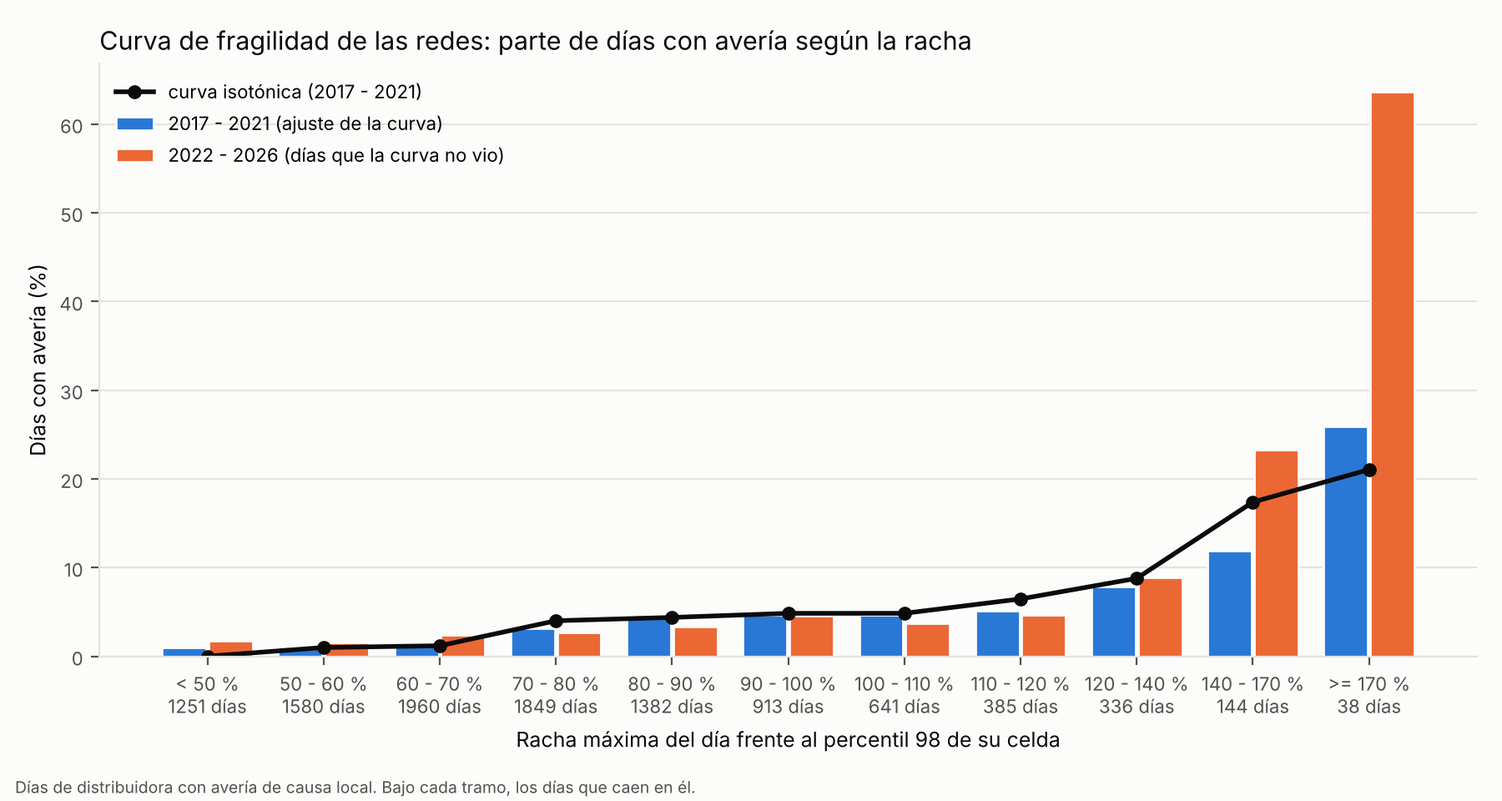
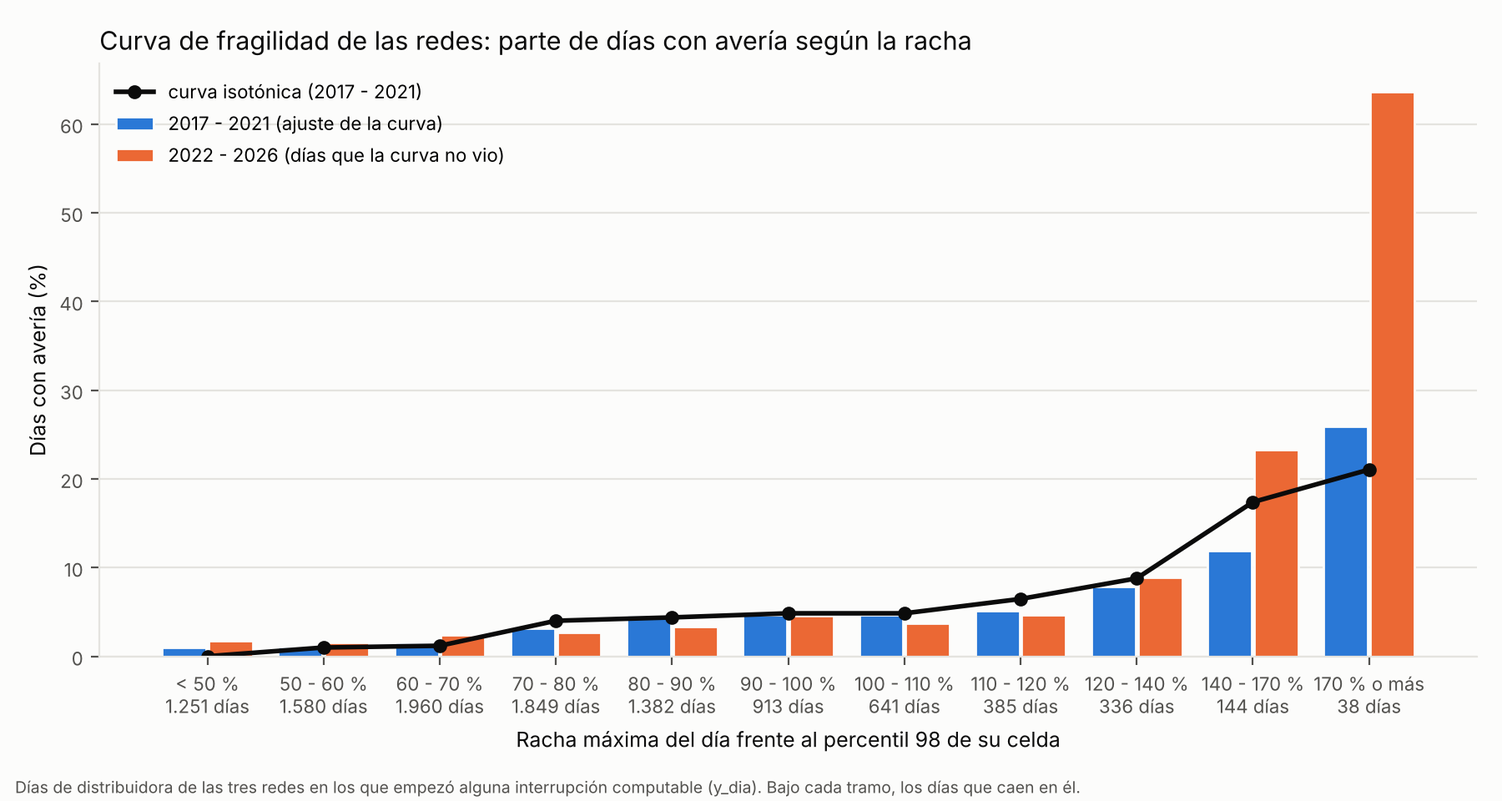
Revision de la documentacion: curva de fragilidad con la etiqueta que usa, la guardia frente a la regla de viento o tormenta, AI Act sin alto riesgo, tasa base 0,027 y mantenimiento con las tablas saltadas

Changed region(s): [[0.1244, 0.9688, 0.7156, 1.0], [0.0933, 0.875, 0.4667, 0.9062], [0.8711, 0.8438, 0.9644, 0.875]]

diff --git a/experimentos/fragilidad/figura_curva.py b/experimentos/fragilidad/figura_curva.py
@@ -22,7 +22,7 @@ def label(lo: float, hi: float) -> str:
     if lo == 0:
         return f"< {hi * 100:.0f} %"
     if hi >= 5:
-        return f">= {lo * 100:.0f} %"
+        return f"{lo * 100:.0f} % o más"
     return f"{lo * 100:.0f} - {hi * 100:.0f} %"
 
 
@@ -42,7 +42,7 @@ def main(folder: str, out: str):
     mids = [(lo + min(hi, 2.0)) / 2 for lo, hi in zip(bins["desde"], bins["hasta"])]
     fitted = np.interp(mids, curve["ext_racha_clima_max"], curve["frag_prob"])
     ax.plot(x, 100 * fitted, color=INK, linewidth=2, marker="o", markersize=5, label="curva isotónica (2017 - 2021)")
-    ticks = [f"{label(lo, hi)}\n{int(a + b)} días" for lo, hi, a, b in
+    ticks = [f"{label(lo, hi)}\n{int(a + b):,} días".replace(",", ".") for lo, hi, a, b in
              zip(bins["desde"], bins["hasta"], bins["size_ajuste"], bins["size_despues"])]
     ax.set_xticks(x, ticks, rotation=0, fontsize=7.5)
     ax.set_xlabel("Racha máxima del día frente al percentil 98 de su celda", fontsize=9, color=INK)
@@ -57,8 +57,9 @@ def main(folder: str, out: str):
         ax.spines[side].set_color(GRID)
     ax.tick_params(colors=MUTED, labelsize=8)
     ax.legend(frameon=False, fontsize=8, loc="upper left")
-    fig.text(0.01, 0.01, "Días de distribuidora con avería de causa local. Bajo cada tramo, los días que caen en él.",
-             fontsize=7, color=MUTED)
+    note = ("Días de distribuidora de las tres redes en los que empezó alguna interrupción computable (y_dia). "
+            "Bajo cada tramo, los días que caen en él.")
+    fig.text(0.01, 0.01, note, fontsize=7, color=MUTED)
     fig.tight_layout(rect=(0, 0.03, 1, 1))
     fig.savefig(out, facecolor=SURFACE)
     print("escrito", out)

diff --git a/docs/model_card.md b/docs/model_card.md
@@ -81,7 +81,7 @@ Estado a 11.10.2026: pipeline hasta Gold cargado con la ventana completa (datase
 - **El riesgo de cada tarde depende de que lleguen los datos.** Sin la previsión de ICON-EU no se calcula; sin los avisos de AEMET se calcula como si no hubiera ninguno y la fila lo marca. Mientras la copia de Calser del lakehouse no se cargue cada día, la historia de incidencias de las últimas semanas no se conoce: el modelo toma la mediana de los días de entrenamiento y la fila lo marca (`historia_al_dia`). El tiempo del día anterior sale de ICON-EU y no del reanálisis con el que se entrenó.
 - **Sesgo de cobertura.** Tres distribuidoras rurales de Extremadura con el mismo SCADA. No hay evidencia de que generalice a otras redes.
 - **Riesgo de uso.** Un exceso de falsas alarmas haría que el operador dejara de mirar las alertas; un exceso de confianza haría que dejara de vigilar los CT sin alerta. Ambos se tratan como requisitos (ver Evaluation).
-- **Regulación.** Un sistema de IA aplicado a infraestructura crítica es de alto riesgo según el Reglamento (UE) 2024/1689 (AI Act). Esta ficha, la trazabilidad de versiones de datos y modelo, la explicabilidad y la supervisión humana forman parte de las obligaciones que asumimos desde el diseño.
+- **Regulación.** El anexo III del Reglamento (UE) 2024/1689 (AI Act) considera de alto riesgo los sistemas de IA que son componentes de seguridad en la gestión y la operación del suministro eléctrico. GridPredic no actúa sobre la red: prepara una decisión humana, la guardia del día siguiente, y en nuestra lectura no es un componente de seguridad ni un sistema de alto riesgo (memoria, 3.10.4). Ese análisis lo documentaremos antes del primer contrato (artículos 6.3 y 6.4), porque la clasificación cambiaría si el sistema actuara solo. Esta ficha, la trazabilidad de versiones de datos y modelo, la explicabilidad y la supervisión humana se mantienen sea cual sea la clasificación.
 
 ### Recommendations
 
@@ -195,7 +195,7 @@ Contra los criterios de aceptación de esta ficha: la PR-AUC supera con claridad
 
 **Riesgo del año siguiente por CT y cabecera** (`job_ml_riesgo_ct.py`, `rct_20261011T215018_d996ba`, años 2021 - 2025). XGBoost Tweedie sobre los kVA·h imprevistos de cada CT y año, con lo que se sabía al empezar el año. Por cabecera, el 10 % que señala el modelo con historia y estructura recoge el 70,9 % de los kVA·h del año siguiente, frente al 63,5 % de ordenar por los dos años anteriores y al 80,7 % del máximo posible, y gana en cuatro de los cinco años; con el 20 % y el SCADA llega al 82,9 % (74,3 % la lista naif). Por CT apenas mejora a la lista naif (30,9 % frente a 27,9 % con el clima). Ni los datos públicos ni el bloque de obras y edificación (PLACSP y Catastro) aportan a un año vista. Las obras públicas por municipio y año tampoco anticipan las averías de terceros: comparando cada municipio consigo mismo, la razón de tasas es 0,66 (intervalo del 90 %, de 0,51 a 1,08). Ver [network-analysis.md](network-analysis.md).
 
-**Riesgo del día siguiente por distribuidora** (`job_ml_riesgo_dia.py`, `dia_ext_20261013_0332`, `dia_det_20261013_0353` y `dia_operativa_20261013_1005`). Con lo que se sabe la tarde anterior: calendario, historia de Calser, tiempo del día anterior, avisos de AEMET enviados antes de las 20:00 y la previsión de ICON-EU para el día siguiente con la racha frente al clima de cada celda. Cada año lo puntúa un modelo entrenado con el reanálisis de los años anteriores; 2024 y 2025 se puntúan también con la previsión real (58 días con avería, tasa base 0,028):
+**Riesgo del día siguiente por distribuidora** (`job_ml_riesgo_dia.py`, `dia_ext_20261013_0332`, `dia_det_20261013_0353` y `dia_operativa_20261013_1005`). Con lo que se sabe la tarde anterior: calendario, historia de Calser, tiempo del día anterior, avisos de AEMET enviados antes de las 20:00 y la previsión de ICON-EU para el día siguiente con la racha frente al clima de cada celda. Cada año lo puntúa un modelo entrenado con el reanálisis de los años anteriores; 2024 y 2025 se puntúan también con la previsión real (58 días con avería, tasa base 0,027):
 
 | Modelo | PR-AUC con la previsión real | Lift | Días con avería en el 10 % de días de más riesgo | En el 20 % |
 | --- | --- | --- | --- | --- |
@@ -214,7 +214,7 @@ Con el reanálisis en 2022 - 2025 (137 días con avería) la logística con avis
 
 **Por líneas, municipios y CT, y la hora siguiente** (`riesgo_zonas.py`, 13.10.2026). Dentro del día, la línea que falla (grupo de red de TedisNet, 70 líneas) queda entre las tres de más riesgo de su distribuidora en el 15 - 18 % de las incidencias de 2022 - 2025 (al azar, el 9 %) y el tamaño de la línea lo hace igual de bien que cualquier modelo; el área que falla (la red en cuatro áreas) está entre las dos de más riesgo en el 62 % de los casos, el 79 % los días de viento. Por línea y hora, con el tiempo observado y la cascada, la PR-AUC es 19 veces la tasa base de 0,041 % y alertar el 1 % de las línea-horas recoge el 23 - 24 % de las incidencias de las 1 - 3 horas siguientes con una precisión del 0,9 %, y por distribuidora y hora, el 3,9 % de las horas recoge el 24 % con una precisión del 2,2 %. Tres de cada cinco incidencias por meteorología empiezan a menos de 3 horas del pico de racha del día; tras una incidencia, otra empieza en 3 horas en el 11 % de los casos (30 % si la primera fue por meteorología). Ver [causas-incidencias.md](causas-incidencias.md), apartado 8.
 
-**En operación, día a día (`job_ml_caso_negocio.py`, `caso_v10_20261014_1543`, 14.10.2026).** La variante `operativa` reentrenada cada tarde solo con los años anteriores, sobre la Distribuidora 1 y la Distribuidora 2 de 2022 al 02.08.2026 (3.348 días de distribuidora, 143 con incidencia de causa local). Con la previsión real de ICON-EU de la víspera (2024 - 2026, 1.844 días): un día muy alto tiene avería el 17,9 % de las veces y un día bajo el 1,9 % (9 veces); la probabilidad está calibrada (muy alto: dice 15,5 % y pasa 17,9 %; bajo: 2,7 % y 1,9 %); AUC 0,72 (la Distribuidora 1 0,76, la Distribuidora 2 0,66) y Brier 0,036 frente a 0,038 de la tasa base; los días en alerta (alto o muy alto, el 12,5 % de los días) concentran el 72 % de las horas-cliente perdidas por causas locales (46 % sin el temporal del 28.01.2026), detectan el 41 % de los días con incidencia y el 71 % de los días con dos o más con un 11 - 12 % de falsas alarmas, y cubren más horas-cliente que los avisos de AEMET a cualquier presupuesto de 16 días al año o más. Dentro de los días de alerta, el 84 % de las incidencias empiezan en la franja horaria prevista y la línea que falla está entre las 3 primeras del ranking el 25 % de las veces (azar 9 %). Las variables probadas después y descartadas (humedad del suelo, lluvia acumulada, factor de racha, horas sobre el percentil 90 local, umbral por estación) están en [investigacion-continua.md](investigacion-continua.md); el detalle, en [caso-de-negocio.md](caso-de-negocio.md).
+**En operación, día a día (`job_ml_caso_negocio.py`, `caso_v10_20261014_1543`, 14.10.2026).** La variante `operativa` reentrenada cada tarde solo con los años anteriores, sobre la Distribuidora 1 y la Distribuidora 2 de 2022 al 02.08.2026 (3.348 días de distribuidora, 143 con incidencia de causa local). Con la previsión real de ICON-EU de la víspera (2024 - 2026, 1.844 días): un día muy alto tiene avería el 17,9 % de las veces y un día bajo el 1,9 % (9 veces); la probabilidad está calibrada (muy alto: dice 15,5 % y pasa 17,9 %; bajo: 2,7 % y 1,9 %); AUC 0,72 (la Distribuidora 1 0,76, la Distribuidora 2 0,66) y Brier 0,036 frente a 0,038 de la tasa base; los días en alerta (alto o muy alto, el 12,5 % de los días) concentran el 72 % de las horas-cliente perdidas por causas locales (46 % sin el temporal del 28.01.2026), detectan el 41 % de los días con incidencia y el 71 % de los días con dos o más con un 11 - 12 % de falsas alarmas, y, a partir de unos 16 días al año, cubren más horas-cliente que los avisos de viento y que los naranjas o rojos con los mismos días, aunque no superan a la regla de viento o tormenta. Dentro de los días de alerta, el 84 % de las incidencias empiezan en la franja horaria prevista y la línea que falla está entre las 3 primeras del ranking el 25 % de las veces (azar 9 %). Las variables probadas después y descartadas (humedad del suelo, lluvia acumulada, factor de racha, horas sobre el percentil 90 local, umbral por estación) están en [investigacion-continua.md](investigacion-continua.md); el detalle, en [caso-de-negocio.md](caso-de-negocio.md).
 
 **Con más antelación y con más fuentes (14 a 16.10.2026).** Con la previsión real de 2024 - 2025 (58 días con avería), la misma variante puntuada con lo que se sabía dos y tres tardes antes da 5,4 y 5,2 veces la tasa base (6,9 la víspera; 2,6 sabiendo solo el tiempo de ayer); el 20 % de días de más riesgo recoge el 66 % y el 64 % de los días con avería (67 % la víspera) y el 10 %, el 43 % y el 40 % (53 %): entre 48 y 72 h no hay diferencia medible, y lo que se pierde desde la víspera es a partes iguales la previsión a dos días y lo que esa tarde aún no se sabe, sobre todo los avisos de AEMET (cuaderno 3e). Nada de lo probado a partir de la revisión de literatura cumple la regla de entrada (subir la captura con el intervalo de la diferencia por encima de cero). Frente al 0,188 de PR-AUC de la variante de producción en 2024 - 2025: la extensión del viento fuerte, las interacciones de la racha con la lluvia, la hoja y el verano, una pendiente por red y la dirección del viento (3f, 0,177 - 0,187); un modelo de conteos de Poisson y una logística equilibrada (3g, 0,127 y 0,158); la sequía de 90 y 180 días y la precipitación helada (3i, 0,178 y 0,179); un segundo modelo de previsión o la media de ICON-EU, GFS y GEM (3j, 0,172 - 0,178), y el verdor de la red medido con el NDVI de MODIS (3k, 0,172 en crudo, igual por cuantiles). Con 2026 dentro (3m, 84 días con avería) el orden no cambia, y con el UKMO de 10 km tampoco aparece un modelo de previsión mejor que ICON-EU. Las pruebas que vinieron después se midieron con la previsión real de 2024 - 2026, donde la variante de producción da 0,156: la densidad de copa y el tipo de hoja del HRL de Copernicus (3l, 0,151), los árboles en el corredor de las líneas de OpenStreetMap (3n, 0,158, con una diferencia emparejada de -0,001), el régimen del tiempo (3o, 0,143), las frondosas caducas del Mapa Forestal (3p, 0,152) y la NAO diaria de NOAA (3r, 0,153). La NAO pareció mejorar sobre el reanálisis con el valor de D - 2, pero con el retraso real de publicación (D - 3) la mejora desaparece; la tarde la sigue descargando, fuera del modelo. Lo que más se acerca es una curva de fragilidad ajustada con 2017 - 2021 (3o, 0,158, +0,003), sola o con la NAO de D - 3 (+0,013 sobre el reanálisis y +0,007 con la previsión real), siempre sin subir la captura: queda como candidata para 2027. En el modelo anual por CT, el arbolado por celda (WorldCover y altura del dosel de Meta y WRI) solo da un indicio (3h), que desaparece al medir los árboles en el corredor (3n). En el modelo anual de fauna, las líneas que la Junta declaró peligrosas para las aves y las aves grandes del Inventario Español de Especies Terrestres suben la captura por CT, pero no llegan a la historia de fauna de cada CT (3q). Todo queda en el código para volver a medirlo con más años.
 

diff --git a/docs/caso-de-negocio.md b/docs/caso-de-negocio.md
@@ -82,9 +82,9 @@ Los avisos de AEMET son una previsión real con archivo desde 2018 y lo que una 
 
 - El temporal del 28.01.2026 lo vio todo el mundo (aviso naranja y muy alto), y por eso en 2024 - 2026 los avisos de viento y los naranjas cubren más de la mitad de las horas-cliente con muy pocos días. Sin ese día (2024 - 2025) los avisos de viento cubrían una de cada cinco horas-cliente con 8 días al año y los naranjas el 18 %: la mayor parte de las averías de causa local llegan sin aviso de viento.
 - Cualquier aviso amarillo (viento, lluvia, tormentas, calor) cubre el 80 % de las horas-cliente, pero reforzando la guardia 85 días al año.
-- La regla que un jefe de brigadas aplicaría de cabeza, "aviso de viento o de tormenta", es la mejor de las reglas sencillas y hay que decirlo: con 23 días al año cubre el 69 % de las horas-cliente (49 % en 2024 - 2025; 40 % sin el temporal del 28.01.2026), y el sistema con esos mismos 23 días cubre menos (66 %, 42 % y 34 %): los avisos de tormenta señalan días de verano que el modelo pone en alto o muy alto (48 de los 63 días con aviso de tormenta sin viento de 2022 - 2026) pero no entre los 23 primeros del año. Donde el sistema gana es con más días, y sobre todo juntando las dos cosas: "GridPredic en alerta o aviso de viento o tormenta" son 50 días al año para el 74 % de las horas-cliente (61 % en 2024 - 2025; 50 % sin el temporal), frente al 72 % (57 %, 46 %) de la alerta sola con 46 días y al 74 % (58 %) de la alerta o aviso naranja con 63. Es la política que recomendamos para la guardia, y la que menos días gasta por hora-cliente cubierta de todas las que superan el 70 %. Con esos mismos 85 días elegidos por el sistema se cubre el 84 %; con 46 días de alerta, el 72 %. En 2024 - 2025: avisos amarillos 60 % con 80 días, sistema 77 % con los mismos 80 días y 57 % con 44 días de alerta. Para cubrir lo que cubren los avisos, el sistema necesita la mitad de los días.
+- La regla que un jefe de brigadas aplicaría de cabeza, "aviso de viento o de tormenta", es la mejor de las reglas sencillas y hay que decirlo: con 23 días al año cubre el 69 % de las horas-cliente (49 % en 2024 - 2025; 40 % sin el temporal del 28.01.2026), y el sistema con esos mismos 23 días cubre menos (66 %, 42 % y 34 %): los avisos de tormenta señalan días de verano que el modelo pone en alto o muy alto (48 de los 63 días con aviso de tormenta sin viento de 2022 - 2026) pero no entre los 23 primeros del año. Donde el sistema gana es con más días, y sobre todo juntando las dos cosas: "GridPredic en alerta o aviso de viento o tormenta" son 50 días al año para el 74 % de las horas-cliente (61 % en 2024 - 2025; 50 % sin el temporal), frente al 72 % (57 %, 46 %) de la alerta sola con 46 días y al 74 % (58 %) de la alerta o aviso naranja con 63. Es la política que recomendamos para la guardia. De las dos formas de juntar el sistema con los avisos es la que menos días gasta (con los naranjas o rojos hacen falta 63 para el mismo 74 %); la alerta sola gasta todavía menos, 46 días para el 72 %, pero se le escapan los días de tormenta de verano. Con los mismos 85 días que los avisos amarillos, elegidos por el sistema y repartidos entre los años como los avisos, se cubre el 84 %; repartidos por igual cada año, como en la curva de `negocio.html`, casi lo mismo que los avisos. En 2024 - 2025: avisos amarillos 60 % con 80 días, sistema 77 % con los mismos 80 días y 57 % con 44 días de alerta. Con poco más de la mitad de los días de los avisos amarillos, la alerta sola cubre el 72 %, ocho puntos menos que ellos.
 - Con el reanálisis en 2022 - 2026 el orden es el mismo (avisos amarillos 64 % de las horas-cliente con el 22 % de los días; GridPredic 59 % con el 13,5 % y 66 % con los mismos días que los avisos), con la cota optimista que ya hemos dicho.
-- `negocio.html` dibuja la misma comparación a cualquier presupuesto: la cobertura de las horas-cliente frente a los días reforzados al año, con el sistema a cada umbral (los k días de más riesgo de cada año) como curva y los calendarios y los avisos de AEMET como puntos. Con menos de 15 días al año los avisos de viento cubren más que el sistema (el 28.01.2026, que los dos vieron, es la mitad de las horas-cliente); a partir de unos 16 días el sistema cubre más a cualquier presupuesto, y los calendarios fijos quedan sobre la línea del azar.
+- `negocio.html` dibuja la misma comparación a cualquier presupuesto: la cobertura de las horas-cliente frente a los días reforzados al año, con el sistema a cada umbral (los k días de más riesgo de cada año) como curva y los calendarios y los avisos de AEMET como puntos. Con menos de 15 días al año los avisos de viento cubren más que el sistema (el 28.01.2026, que los dos vieron, es la mitad de las horas-cliente); a partir de unos 16 días el sistema cubre más que los avisos de viento y que los naranjas o rojos, pero no supera a la regla de viento o tormenta, que con sus 23 días sigue unos tres puntos por delante; los calendarios fijos quedan sobre la línea del azar.
 - En las métricas de los trabajos que predicen los días con averías (detección y falsas alarmas por día; tabla "Detección y falsas alarmas" de `resumen.md`), con la previsión real de 2024 - 2026: el sistema en alerta marca el 12,5 % de los días y detecta el 41 % de los días con alguna incidencia (73), el 71 % de los días con dos o más (7) y el 41 % de los 10 peores días de cada año por horas-cliente (59), con un 11 - 12 % de falsas alarmas; los avisos amarillos marcan el 23 % de los días y detectan el 44 %, el 86 % y el 39 %; el sistema con esos mismos días, el 62 %, el 71 % y el 63 %. El trabajo de la Universidad de Alcalá sobre Valencia y Albacete detecta el 38 % y el 73 % de los días extremos con un 1 % y un 3 % de falsas alarmas, pero define el día extremo por el número de averías de una provincia entera, con decenas de averías al día; con 7 días de dos o más incidencias en dos años y medio, nuestra cifra equivalente (71 %) se mueve mucho de un año a otro y la contamos como orden de magnitud.
 
 ## 3. Las brigadas: lo que dicen los datos

diff --git a/docs/memoria-lo-que-pide-el-tutor.md b/docs/memoria-lo-que-pide-el-tutor.md
@@ -83,7 +83,7 @@ Lo que no hace, y lo decimos: no dice qué centro de transformación fallará; n
 
 **Oportunidades.** La Circular 8/2025 (incentivo de calidad y proyectos piloto reconocidos con cargo a los costes de distribución); 328 distribuidoras, de las que 89 están cualificadas y 52 son clientes del partner; los temporales de los últimos años (el TIEPI nacional por fuerza mayor se multiplica por 20 en los años de Klaus y Xynthia, y casi por seis en el de Ana); fuentes públicas nuevas (rayos del satélite, avisos, incendios).
 
-**Amenazas.** Clientes conservadores y ciclo de venta largo; dependencia del partner; que una gran eléctrica o un fabricante de SCADA ofrezca lo mismo; el AI Act (sistema de alto riesgo para infraestructura crítica) y sus obligaciones; cambios en la fórmula del incentivo.
+**Amenazas.** Clientes conservadores y ciclo de venta largo; dependencia del partner; que una gran eléctrica o un fabricante de SCADA ofrezca lo mismo; el AI Act, si un cliente o un regulador leyera el sistema como de alto riesgo, y sus obligaciones; cambios en la fórmula del incentivo.
 
 **Priorización por fases.** Año 1, estrategia defensiva (fortalezas frente a amenazas): entrar solo por el partner, con pilotos y la demo gratuita, sin gasto comercial; conseguir dos referencias y los datos de más distribuidoras. Años 2 y 3, estrategia agresiva (oportunidades): ferias y asociaciones, venta directa, y el horizonte de dos y tres días como producto propio.
 
@@ -95,7 +95,7 @@ Lo que no hace, y lo decimos: no dice qué centro de transformación fallará; n
 | Ciclo de venta largo (6 a 18 meses) y clientes conservadores | Alto | Alta | Alto | Entrar por el partner; demo gratuita de un mes; el ahorro calculado con los datos del cliente; plan de tesorería de los primeros 6 meses |
 | Dependencia del partner comercial | Medio | Media | Alto | Acuerdo escrito (exclusividad limitada, condiciones de salida); venta directa desde el año 2 |
 | Que una previsión meteorológica mala dé un día malo sin avisar | Medio | Media | Medio | Tres fuentes (ICON-EU, 40 escenarios, AEMET) y la confianza en la previsión en el cuadro de mando; los avisos releídos cada hora |
-| Regulación: AI Act (alto riesgo), RGPD, NIS2 | Medio | Media | Alto | Soporte a la decisión, nunca acción automática; ficha del modelo y del dataset; supervisión humana; registro cuando toque |
+| Regulación: AI Act, RGPD y NIS2 | Medio | Media | Alto | Soporte a la decisión, nunca acción automática; ficha del modelo y del dataset; supervisión humana; registro cuando toque |
 | Cambio de la fórmula del incentivo de calidad | Bajo | Baja | Alto | El valor operativo (llegar antes) no depende de la fórmula; seguimiento de la CNMC |
 | Un competidor grande ofrece lo mismo | Medio | Baja | Alto | Velocidad y cercanía: las grandes no atienden a distribuidoras de 700 o 30.000 clientes; datos propios del cliente como foso |
 | Financiación insuficiente antes de los primeros cobros | Alto | Media | Alto | Mix 40/60 en lugar de 20/80; ronda de 250.000 euros; gastos variables ligados a clientes |

diff --git a/docs/operacion-diaria.md b/docs/operacion-diaria.md
@@ -19,7 +19,7 @@ Este documento es el manual de la operación en marcha: los tres DAG de Airflow 
 | cada hora, a y 20 | `dag_observacion_vivo` / `observar` | Las últimas 24 horas de las estaciones de AEMET de la caja de estudio (clave de AEMET); verifica la previsión de ayer y de hoy frente a lo medido | `00_landing/vivo/observacion/<día>/obs_<hhmm>.json`, `dashboard/data/observado.json`, `dashboard/data/verificacion.json` |
 | cada hora, a y 20 | `avisos_hoy` | Vuelve a pedir a AEMET los avisos en vigor, busca los que cubren hoy los municipios de cada red (uno de cada cinco avisos de un día llega después de las 20:30; dos de cada cinco de los de tormenta), recalcula la guardia y, cuando un aviso nuevo de viento o tormenta la sube a reforzada, lo manda al webhook una vez por distribuidora y día | `00_landing/vivo/<día>/avisos_hoy/<área>_<hhmm>.tar`, `dashboard/data/avisos_hoy.json`, `avisos_hoy_aviso.json` (a quién se avisó) |
 | 07:20 (la primera ejecución desde `aviso.parte_manana_hora`) | `parte_manana` | El parte de la mañana al webhook: lo que dijimos para ayer y lo que midieron las estaciones (pico previsto y medido, franja, banda, AEMET, aviso) y lo que dice el sistema para hoy (nivel, franja, pico), una vez al día | mensaje en el webhook; `dashboard/data/parte_manana.json` (el último día enviado) |
-| domingos, 04:10 | `dag_mantenimiento_delta` / `optimize_vacuum` | `job_mantenimiento_delta.py`: OPTIMIZE y VACUUM, con 168 horas de retención, de todas las tablas Delta de `l1_bronze`, `l2_silver` y `l3_gold`; una tabla que falla se salta y se intenta otra vez el domingo siguiente. La primera pasada, del 16.10.2026, dejó 225 tablas en 559 ficheros (antes eran 14.185) | las tablas compactadas; el log de Spark da los ficheros y los MB de cada tabla antes y después |
+| domingos, 04:10 | `dag_mantenimiento_delta` / `optimize_vacuum` | `job_mantenimiento_delta.py`: OPTIMIZE y VACUUM, con 168 horas de retención, de todas las tablas Delta de `l1_bronze`, `l2_silver` y `l3_gold`; una tabla que falla se salta y se intenta otra vez el domingo siguiente. La primera pasada, lanzada a mano el viernes 16.10.2026, tardó 3 h 4 min y dejó 225 tablas en 559 ficheros (antes eran 14.185); las cinco tablas más grandes se saltaron por falta de memoria del ejecutor y, mientras no cambie, fallarán igual cada domingo: para ellas queda compactar por particiones | las tablas compactadas; el log de Spark da los ficheros y los MB de cada tabla antes y después |
 
 La puntuación empieza cuando acaban las cinco tareas de la Landing, y la que más tarda es `aemet_municipios`: el 14 y el 15.10.2026 `puntuar` corrió de 20:39 a 20:44 y de 20:39 a 20:45 (4 min 33 s y 5 min 38 s), y la tarde entera, de 20:30 a 20:45. Las tareas `ensemble`, `aemet_municipios`, `avisos` y `nao` nunca bloquean la puntuación: sin respuesta se saltan y el día se puntúa sin ellas (la fila lo dice). Sin la previsión de ICON-EU no hay puntuación, y la tarea reintenta dos veces con diez minutos entre medias.
 

diff --git a/docs/dataset_card.md b/docs/dataset_card.md
@@ -172,7 +172,7 @@ No se ingieren las tablas de abonados, acometidas ni contratos. El grano más fi
 - **Eventos sistémicos.** En la Distribuidora 1 y la Distribuidora 2 el 94 % de las interrupciones afectan a varios CT a la vez (hasta 517). Un modelo puede aprender a predecir "día malo" en lugar de "CT malo"; por eso las métricas se calculan por separado para eventos locales y sistémicos.
 - **Duplicados y solapes en origen.** 984 filas duplicadas en la Distribuidora 1 y 1.952 en la Distribuidora 2; 1.605 y 2.388 pares de interrupciones solapadas en el mismo CT. Silver los deduplica y marca; la fusión de solapes se decide en Gold.
 - **Cortes deducidos, no medidos.** TedisNet genera hasta 69 eventos idénticos para un mismo cambio de tag y un 18,7 % de eventos sin elementos; los transformadores sin nodo nunca aparecen como cortados; si RabbitMQ cae no se copia nada al histórico. Todo esto se corrige o se marca en `f_corte_evento`.
-- **Telemetría parcial.** Solo unos 4.000 tags tienen serie regular, el 22 % de las muestras no tienen calidad Buena, los valores de estado son copiados (detalle de calidad 14) y el muestreo sample-and-hold produce valores congelados (Silver guarda su antigüedad en `antiguedad_s`). La mayoría de las series son de cabecera (`AI.INTENSIDAD`, `AI.TENSION`); muchos CT no tienen medidas propias y solo ven las de la posición que los alimenta.
+- **Telemetría parcial.** Solo unos 4.000 tags tienen serie regular, una parte de las muestras no tiene calidad Buena (Silver la cuenta por tag, día y motivo), los valores de estado son copiados (detalle de calidad 14) y el muestreo sample-and-hold produce valores congelados (Silver guarda su antigüedad en `antiguedad_s`). La mayoría de las series son de cabecera (`AI.INTENSIDAD`, `AI.TENSION`); muchos CT no tienen medidas propias y solo ven las de la posición que los alimenta.
 - **Topología aprendida.** El interruptor que corta un CT suele estar en otra rama de la jerarquía funcional. Gold lo aprende de los cortes históricos (`map_aguas_arriba`), así que un CT que nunca se ha cortado no tiene posición aguas arriba.
 - **Metadatos actuales, eventos históricos.** La topología y los atributos de los elementos son los de hoy; los eventos de hace años pueden referirse a elementos que ya cambiaron.
 - **Leakage.** `fecha_alta`, `ts`, las columnas `*_OPTIMIZADA` y las tablas `calculos_*` de Calser conocen el futuro y no pueden usarse como feature. El estado del interruptor del propio CT es el corte, no una señal previa.

diff --git a/docs/silver-layer.md b/docs/silver-layer.md
@@ -162,7 +162,7 @@ Y el volumen. El job no trata nunca la tabla entera:
 - La salida está particionada por `fecha_mes` y cada ejecución sobrescribe solo los meses procesados (`replaceWhere`). Se puede reprocesar un mes sin tocar el resto.
 - Un mes cuenta como hecho cuando su última métrica (`tags_con_datos`) está en `dq_metrics`. Una ejecución nueva se salta los meses hechos, así que si el job muere a medias (en el portátil se puede perder un executor después de una hora de I/O) el reintento sigue desde el primer mes sin terminar. `--rehacer` fuerza todos los meses del rango.
 - La clave de deduplicación es `(tag, instante de rejilla)`: solo puede haber una muestra por tag e instante. `Id` no sirve como clave porque la tabla Big y la pequeña tienen espacios de `Id` distintos. Gana Historic, después el valor más reciente.
-- Los rechazos no se copian fila a fila (serían unos 470 millones): `f_tag_interval_value_rechazo_diario` guarda el recuento por tag, día y motivo. En la BD real alrededor del 22 % de las filas no tiene calidad Buena, y el umbral de revisión está en el 30 %.
+- Los rechazos no se copian fila a fila (serían cientos de millones): `f_tag_interval_value_rechazo_diario` guarda el recuento por tag, día y motivo, y la métrica pasa a `REVISAR` si el rechazo supera el 30 %. La proporción de la ventana completa no la hemos sacado; el 22 % que citábamos salió de una consulta de la exploración que no guardamos y ya no lo usamos.
 
 ### `d_tag`
 
